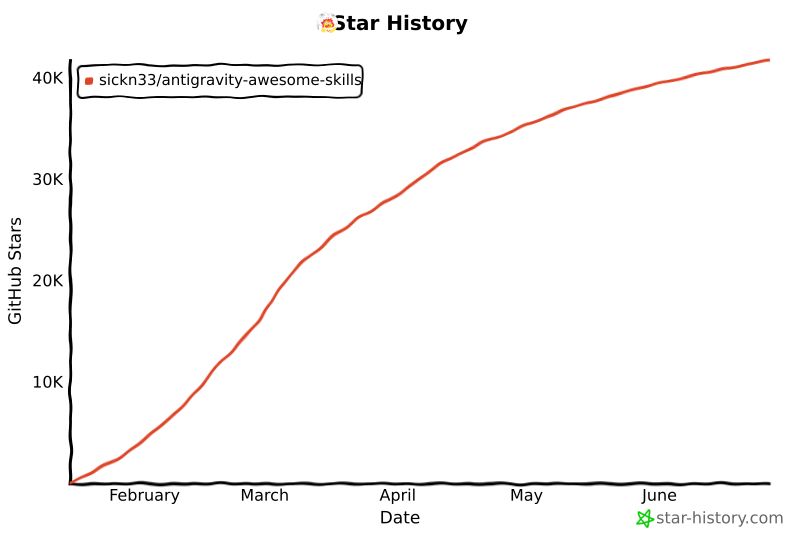
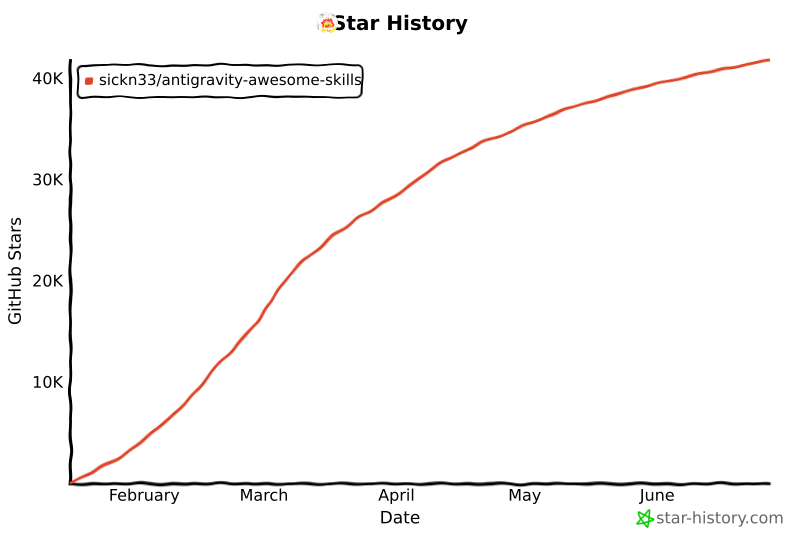
chore: update star history chart

diff --git a/README.md b/README.md
@@ -510,14 +510,14 @@ We officially thank the following contributors for their help in making this rep
 ## Star History
 
 <a href="https://www.star-history.com/#sickn33/antigravity-awesome-skills&type=date&legend=top-left">
- <img alt="Star History Chart" src="https://api.star-history.com/svg?repos=sickn33/antigravity-awesome-skills&type=date&legend=top-left&cache_bust=202606270709" />
+ <img alt="Star History Chart" src="https://api.star-history.com/svg?repos=sickn33/antigravity-awesome-skills&type=date&legend=top-left&cache_bust=202606280725" />
 </a>
 
 <a href="https://www.star-history.com/sickn33/antigravity-awesome-skills">
  <picture>
-   <source media="(prefers-color-scheme: dark)" srcset="https://api.star-history.com/chart?repos=sickn33/antigravity-awesome-skills&style=landscape1&theme=dark&cache_bust=202606270709" />
-   <source media="(prefers-color-scheme: light)" srcset="https://api.star-history.com/chart?repos=sickn33/antigravity-awesome-skills&style=landscape1&cache_bust=202606270709" />
-   <img alt="Star History Chart" src="https://api.star-history.com/chart?repos=sickn33/antigravity-awesome-skills&style=landscape1&cache_bust=202606270709" />
+   <source media="(prefers-color-scheme: dark)" srcset="https://api.star-history.com/chart?repos=sickn33/antigravity-awesome-skills&style=landscape1&theme=dark&cache_bust=202606280725" />
+   <source media="(prefers-color-scheme: light)" srcset="https://api.star-history.com/chart?repos=sickn33/antigravity-awesome-skills&style=landscape1&cache_bust=202606280725" />
+   <img alt="Star History Chart" src="https://api.star-history.com/chart?repos=sickn33/antigravity-awesome-skills&style=landscape1&cache_bust=202606280725" />
  </picture>
 </a>
 
